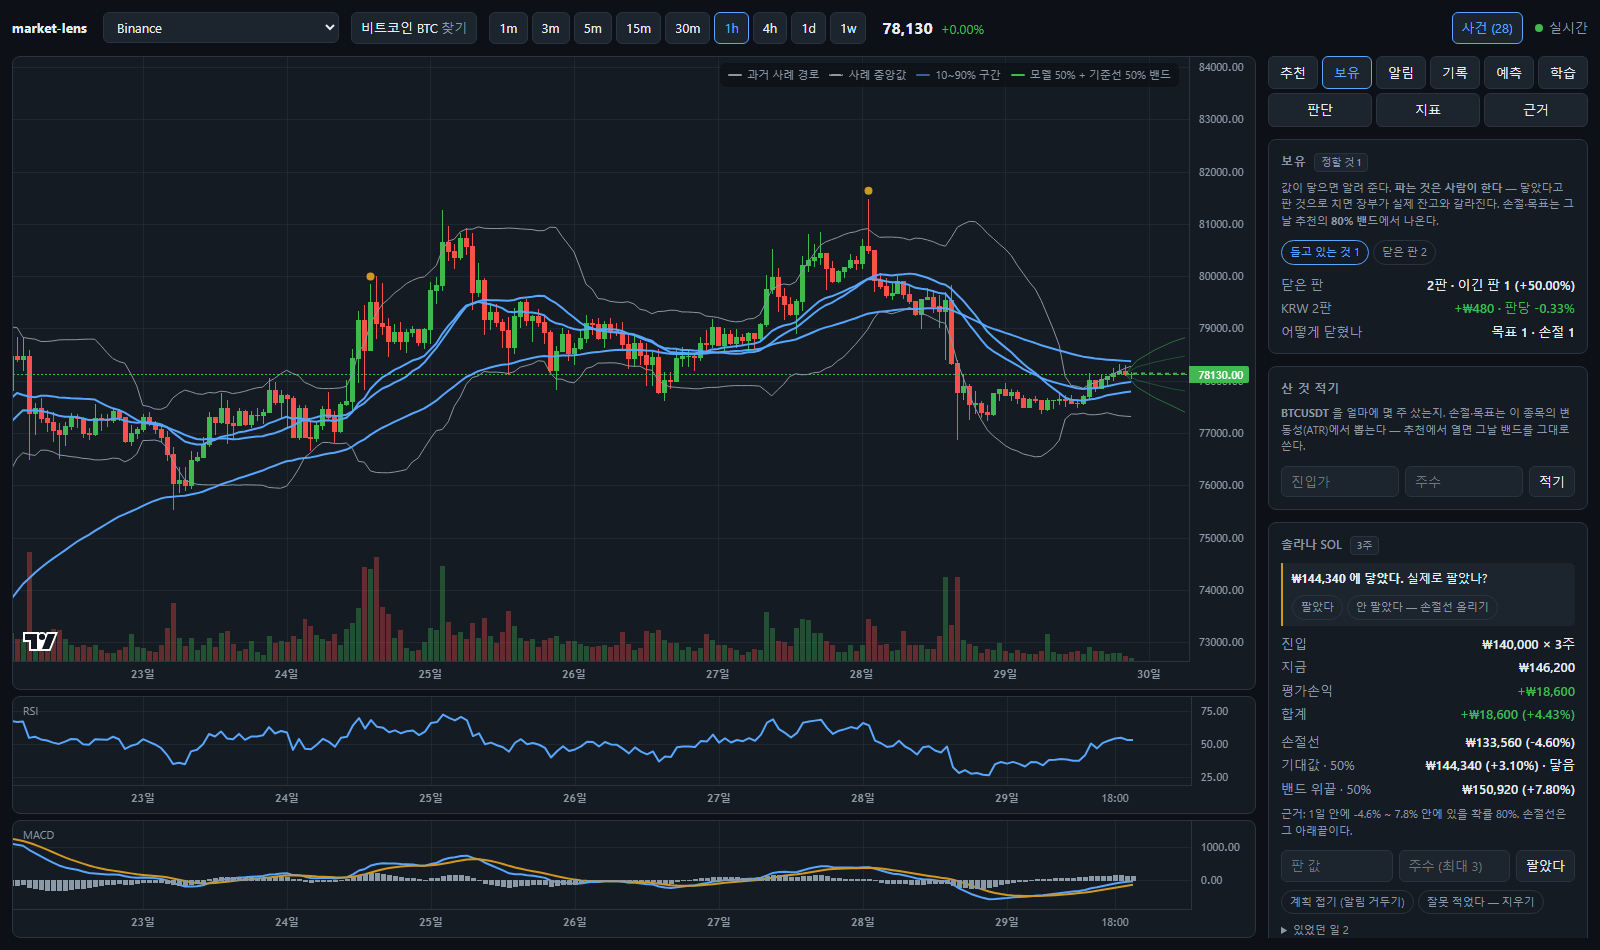
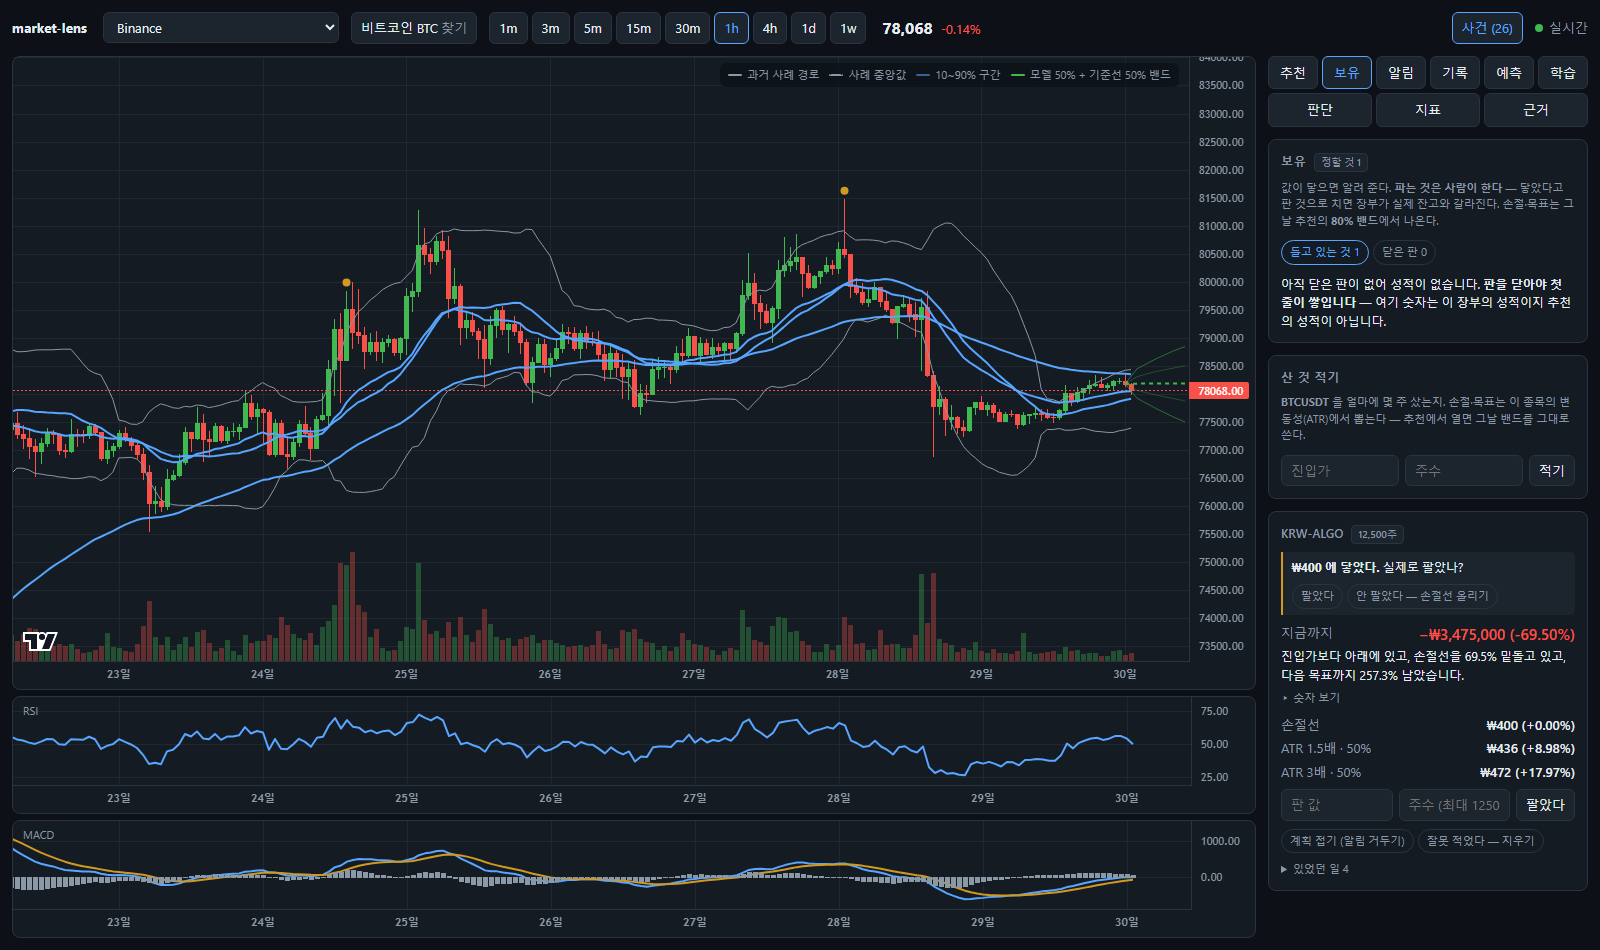
feat: 보유·알림·기록도 말로 설명한다
추천·판단·학습에 한 것을 나머지 셋에도 한다. 다만 **여기는 숫자가 곧 답인 자리가
섞여 있어** 접는 기준이 다르다.

## 보유 — 손익은 접지 않는다

"얼마 벌었나" 를 말로 바꾸면 오히려 못 읽는다. 그래서 합계를 제일 크게 그대로 두고,
말이 필요한 쪽에만 문장을 붙였다:

    지금까지          −₩3,487,500 (−69.75%)
    진입가보다 아래에 있고, 손절선을 69.8% 밑돌고 있고,
    다음 목표까지 260.3% 남았습니다.
    ▸ 숫자 보기   (진입 · 지금 · 평가손익 · 실현손익)

성적표도 "닫은 5판 가운데 3판이 이기고 2판이 졌습니다" 로 먼저 말하고, 번 돈은
통화별로 그대로 남긴다. 어떻게 닫혔나(손절 2 · 목표 1)만 접는다.

문장을 만들 때 어미를 떼고 모았다가 마지막에 한 번만 붙인다. 통째로 이어 붙였더니
"…밑돌고 있습니다, 다음 목표까지…" 로 문장이 두 번 끝났다.

## 알림 — 이 값이 어디서 나왔는지

`3일 안에 −5.5% ~ +5.6% 안에 있을 확률 80%` 만 적혀 있으면 그게 이 알림값과 무슨
상관인지 알 수가 없다. 알림값은 그 밴드 끝에서 잡은 것이므로 그렇게 적는다 —
"이 값은 3일 예측 폭(대개 ±5.6%)의 끝에서 잡은 것입니다".

## 기록 — 방향만, 점수는 안 매긴다

"그 뒤로 계속 올랐습니다" 한 마디를 변화율 위에 붙인다. 숫자는 그대로 남긴다 —
거기서도 답은 숫자다. **점수는 매기지 않는다**: buy_below 는 뒤가 오르면 반갑고
target_above 는 이미 닿아서 나간 알림이라, 한 잣대로 더하면 없는 성적이 생긴다
(`followup.py` 와 같은 이유). 그래서 "잘했다/못했다" 가 아니라 움직인 방향만 적는다.

방금 나간 알림은 +1일도 아직 없어 `최근` 하나뿐일 때가 많아서, 그것도 마지막 점으로
넣어야 한 마디가 나온다.

## 곁들여: 조용히 사라지던 줄

같은 초에 나간 시험 알림 여섯이 **같은 key 를 쓰고 있었다.** React 는 겹친 키를
만나면 하나만 그리고 나머지를 조용히 버린다 — 알림함과 기록에서 줄이 사라질 수
있었다는 뜻이다. 자리를 같이 넣어 갈랐다.

알림 탭은 스크린샷 목록에 없어서 눈으로 확인할 길이 없었다. 폰에서 제일 자주 여는
화면이라 `shot.mjs` 에 넣었다.

diff --git a/web/src/components/PositionsPanel.tsx b/web/src/components/PositionsPanel.tsx
@@ -13,6 +13,8 @@
 import { useCallback, useEffect, useState } from "react";
 
 import { positions as api } from "../api";
+import { ledgerWords, roomWords } from "../say";
+import { Numbers } from "./Numbers";
 import type { Position, PositionAdvice, PositionsView } from "../types";
 
 const SIGN: Record<string, string> = { KRW: "₩", USD: "$" };
@@ -137,40 +139,42 @@ function Record({ view }: { view: PositionsView | null }) {
   const record = view?.record;
   if (!record || record.n === 0) {
     return (
-      <p className="note" style={{ marginTop: 10 }}>
-        닫은 판이 없어 성적이 없다. <b>판을 닫아야 첫 줄이 쌓인다</b> — 여기 숫자는
-        이 장부의 성적이지 추천의 성적이 아니다.
+      <p className="plain" style={{ marginTop: 10 }}>
+        아직 닫은 판이 없어 성적이 없습니다. <b>판을 닫아야 첫 줄이 쌓입니다</b> —
+        여기 숫자는 이 장부의 성적이지 추천의 성적이 아닙니다.
       </p>
     );
   }
   return (
-    <div className="rows" style={{ marginTop: 10 }}>
-      <div className="row">
-        <span>닫은 판</span>
-        {/* 승률에는 부호를 안 붙인다. `+50%` 로 적으면 손익처럼 읽힌다. */}
-        <b>
-          {record.n}판 · 이긴 판 {record.wins ?? 0}{" "}
-          ({((record.winRate ?? 0) * 100).toFixed(0)}%)
-        </b>
+    <>
+      {/* 말이 먼저. 승률에는 부호를 안 붙인다 — `+50%` 로 적으면 손익처럼 읽힌다. */}
+      <p className="plain" style={{ marginTop: 10 }}>
+        {ledgerWords(record.n, record.wins ?? 0)}
+        {" ("}이긴 비율 {((record.winRate ?? 0) * 100).toFixed(0)}%{")"}
+      </p>
+      {/* **번 돈은 접지 않는다.** 여기선 숫자가 곧 답이다. */}
+      <div className="rows" style={{ marginTop: 6 }}>
+        {Object.entries(record.byCurrency).map(([currency, body]) => (
+          <div className="row" key={currency}>
+            <span>{currency} {body.n}판</span>
+            <b style={{ color: tone(body.realized) }}>
+              {signed(body.realized, currency)}
+              {body.avgPct !== null && ` · 판당 ${pct(body.avgPct)}`}
+            </b>
+          </div>
+        ))}
       </div>
-      {Object.entries(record.byCurrency).map(([currency, body]) => (
-        <div className="row" key={currency}>
-          <span>{currency} {body.n}판</span>
-          <b style={{ color: tone(body.realized) }}>
-            {signed(body.realized, currency)}
-            {body.avgPct !== null && ` · 판당 ${pct(body.avgPct)}`}
+      <Numbers>
+        <div className="row">
+          <span>어떻게 닫혔나</span>
+          <b>
+            {Object.entries(record.reasons)
+              .map(([key, n]) => `${REASON[key] ?? key} ${n}`)
+              .join(" · ")}
           </b>
         </div>
-      ))}
-      <div className="row">
-        <span>어떻게 닫혔나</span>
-        <b>
-          {Object.entries(record.reasons)
-            .map(([key, n]) => `${REASON[key] ?? key} ${n}`)
-            .join(" · ")}
-        </b>
-      </div>
-    </div>
+      </Numbers>
+    </>
   );
 }
 
@@ -278,36 +282,47 @@ function PositionCard({ item, onChange, onPick }: {
         </div>
       ))}
 
+      {/* **합계가 답이다.** 여기선 숫자를 접지 않고 제일 크게 둔다 — "얼마 벌었나" 를
+          말로 바꾸면 오히려 못 읽는다. 말이 필요한 건 "그래서 지금 어디쯤인가" 다. */}
       <div className="rows" style={{ marginTop: 8 }}>
         <div className="row">
-          <span>진입</span>
-          <b>{money(item.entry, item.currency)} × {item.shares.toLocaleString("ko-KR")}주</b>
-        </div>
-        <div className="row">
-          <span>지금</span>
-          <b>{item.price === null ? "시세 못 받음" : money(item.price, item.currency)}</b>
-        </div>
-        <div className="row">
-          <span>평가손익</span>
-          <b style={{ color: tone(item.unrealized) }}>
-            {signed(item.unrealized, item.currency)}
-          </b>
-        </div>
-        {item.realized !== 0 && (
-          <div className="row">
-            <span>실현손익</span>
-            <b style={{ color: tone(item.realized) }}>
-              {signed(item.realized, item.currency)}
-            </b>
-          </div>
-        )}
-        <div className="row">
-          <span>합계</span>
-          <b style={{ color: tone(total) }}>
+          <span>지금까지</span>
+          <b style={{ color: tone(total), fontSize: 15 }}>
             {signed(total, item.currency)} {totalPct !== null && `(${pct(totalPct)})`}
           </b>
         </div>
       </div>
+      {roomWords(item.price, item.entry, item.stop, item.targets) && (
+        <p className="plain">
+          {roomWords(item.price, item.entry, item.stop, item.targets)}
+        </p>
+      )}
+      <Numbers>
+        <div className="rows">
+          <div className="row">
+            <span>진입</span>
+            <b>{money(item.entry, item.currency)} × {item.shares.toLocaleString("ko-KR")}주</b>
+          </div>
+          <div className="row">
+            <span>지금</span>
+            <b>{item.price === null ? "시세 못 받음" : money(item.price, item.currency)}</b>
+          </div>
+          <div className="row">
+            <span>평가손익</span>
+            <b style={{ color: tone(item.unrealized) }}>
+              {signed(item.unrealized, item.currency)}
+            </b>
+          </div>
+          {item.realized !== 0 && (
+            <div className="row">
+              <span>실현손익</span>
+              <b style={{ color: tone(item.realized) }}>
+                {signed(item.realized, item.currency)}
+              </b>
+            </div>
+          )}
+        </div>
+      </Numbers>
 
       {item.status === "open" && (
         <div className="rows" style={{ marginTop: 8 }}>

diff --git a/web/src/say.ts b/web/src/say.ts
@@ -212,3 +212,69 @@ export function trustWords(measured?: { directionHit?: number; bandHit?: number 
     : "반반에 가깝고";
   return `이 도구는 "얼마나 움직일까" 를 ${band} 맞힙니다. "오를까 내릴까" 는 ${direction}, 그래서 폭을 먼저 읽는 게 맞습니다.`;
 }
+
+// --- 보유 · 알림 · 기록 ---------------------------------------------------
+
+/**
+ * 들고 있는 판 하나를 한 문장으로.
+ *
+ * **손익 숫자는 접지 않는다.** 거기선 숫자가 곧 답이다 — "얼마 벌었나" 를 말로
+ * 바꾸면 오히려 못 읽는다. 말이 필요한 건 **"그래서 지금 어디쯤인가"** 쪽이라,
+ * 손절선·목표까지 얼마나 남았는지를 문장으로 붙인다.
+ */
+export function roomWords(price: number | null, entry: number,
+                          stop: number, targets: { price: number; settledAt?: string | null }[]): string | null {
+  if (price === null || !Number.isFinite(price) || price <= 0) return null;
+  // 어미를 떼고 모았다가 마지막에 한 번만 붙인다. 통째로 이어 붙이면
+  // "…밑돌고 있습니다, 다음 목표까지…" 처럼 문장이 두 번 끝난다.
+  const clauses: string[] = [];
+  if (stop > 0) {
+    const away = (price / stop - 1) * 100;
+    clauses.push(away >= 0
+      ? `손절선까지 ${away.toFixed(1)}% 남았`
+      : `손절선을 ${Math.abs(away).toFixed(1)}% 밑돌고 있`);
+  }
+  const next = targets.find((tg) => !tg.settledAt && tg.price > price);
+  if (next) clauses.push(`다음 목표까지 ${((next.price / price - 1) * 100).toFixed(1)}% 남았`);
+  else if (targets.length && targets.every((tg) => tg.settledAt)) clauses.push("목표는 다 정리했");
+  if (clauses.length === 0) return null;
+  const side = price >= entry ? "진입가보다 위" : "진입가보다 아래";
+  return `${side}에 있고, ${clauses.join("고, ")}습니다.`;
+}
+
+/** 장부의 성적. **추천의 성적이 아니라 내가 실제로 사고판 결과다.** */
+export function ledgerWords(n: number, wins: number): string {
+  if (n === 0) return "아직 닫은 판이 없습니다. 판을 닫아야 첫 줄이 쌓입니다.";
+  const rest = n - wins;
+  if (wins === n) return `닫은 ${n}판이 모두 이겼습니다.`;
+  if (wins === 0) return `닫은 ${n}판이 모두 졌습니다.`;
+  return `닫은 ${n}판 가운데 ${wins}판이 이기고 ${rest}판이 졌습니다.`;
+}
+
+/**
+ * 알림 규칙의 밴드 줄. **이 값이 어디서 나왔는지**를 말한다.
+ *
+ * `3일 안에 −5.5% ~ +5.6% 안에 있을 확률 80%` 만 적혀 있으면, 그게 이 알림값과
+ * 무슨 상관인지 알 수가 없다. 알림값은 그 밴드 끝에서 잡은 것이다.
+ */
+export function ruleBandWords(days: number, band: [number, number]): string {
+  const half = ((band[1] - band[0]) / 2).toFixed(1);
+  return `이 값은 ${days}일 예측 폭(대개 ±${half}%)의 끝에서 잡은 것입니다`;
+}
+
+/**
+ * 알림이 나간 뒤 값이 어디로 갔나 — 한 마디.
+ *
+ * **점수를 매기지 않는다.** `buy_below` 는 뒤가 오르면 반갑고 `target_above` 는
+ * 이미 닿아서 나간 알림이라, 한 잣대로 더하면 없는 성적이 생긴다(`followup.py`).
+ * 그래서 "잘했다/못했다" 가 아니라 **움직인 방향**만 적는다.
+ */
+export function afterWords(points: number[]): string | null {
+  const seen = points.filter((v) => Number.isFinite(v));
+  if (seen.length === 0) return null;
+  const last = seen[seen.length - 1];
+  if (Math.abs(last) < 1) return "그 뒤로는 거의 제자리였습니다";
+  const rising = seen.length > 1 && seen[seen.length - 1] > seen[0];
+  if (last > 0) return rising ? "그 뒤로 계속 올랐습니다" : "그 뒤로 올랐다가 힘이 빠졌습니다";
+  return rising ? "내렸다가 돌아오는 중입니다" : "그 뒤로 계속 내렸습니다";
+}

diff --git a/web/src/components/AlertLog.tsx b/web/src/components/AlertLog.tsx
@@ -12,6 +12,7 @@
 import { useCallback, useEffect, useMemo, useState } from "react";
 
 import { alerts } from "../api";
+import { afterWords } from "../say";
 import type { AlertFired, AlertLogView, AlertOutcomes } from "../types";
 import { KIND } from "./AlertsPanel";
 
@@ -54,6 +55,20 @@ function num(value: number | null | undefined): string {
   if (value === null || value === undefined || !Number.isFinite(value)) return "—";
   const digits = value >= 1000 ? 0 : value >= 1 ? 2 : 4;
   return value.toLocaleString("ko-KR", { maximumFractionDigits: digits });
+}
+
+/** 알림 뒤의 변화율을 시간순으로. **`최근` 도 마지막 점으로 넣는다** — 방금 나간
+ *  알림은 +1일도 아직 없어서 그것만 있을 때가 많다. */
+function trail(outcome: { after: Record<string, { changePct: number }>;
+                          latest?: { changePct: number } | null },
+               horizons: number[]): number[] {
+  const points = horizons
+    .map((h) => outcome.after[String(h)]?.changePct)
+    .filter((v): v is number => typeof v === "number");
+  if (outcome.latest && typeof outcome.latest.changePct === "number") {
+    points.push(outcome.latest.changePct);
+  }
+  return points;
 }
 
 function pct(value: number): string {
@@ -261,8 +276,10 @@ export function AlertLog({ onPick }: Props) {
             <span className="scope">{group.items.length}건</span>
           </h2>
           <div className="rows" style={{ marginTop: 6 }}>
-            {group.items.map((item) => (
-              <LogRow key={item.id} item={item}
+            {/* 시험 알림처럼 **같은 초에 둘이 나가면 id 가 겹친다.** 겹친 키는 React 가
+                하나만 그리고 나머지를 조용히 버리므로, 자리를 같이 넣어 갈라 준다. */}
+            {group.items.map((item, index) => (
+              <LogRow key={`${item.id}-${index}`} item={item}
                       outcome={outcomes?.outcomes[item.id] ?? null}
                       horizons={horizons} onPick={onPick} />
             ))}
@@ -296,6 +313,14 @@ function LogRow({ item, outcome, horizons, onPick }: {
           {item.archived && " · 보관"}
           {!item.read && " · 안 읽음"}
         </span>
+        {/* **점수를 매기지 않는다.** `buy_below` 는 뒤가 오르면 반갑고 `target_above` 는
+            이미 닿아서 나간 알림이라, 한 잣대로 더하면 없는 성적이 생긴다. 그래서
+            "잘했다/못했다" 가 아니라 **움직인 방향**만 한 마디로 적는다. */}
+        {outcome && afterWords(trail(outcome, horizons)) && (
+          <span className="log-line" style={{ color: "var(--text)" }}>
+            {afterWords(trail(outcome, horizons))}
+          </span>
+        )}
         {outcome && (
           <span className="log-line">
             {horizons.map((h) => {

diff --git a/web/src/components/AlertsPanel.tsx b/web/src/components/AlertsPanel.tsx
@@ -8,6 +8,7 @@
 import { useCallback, useEffect, useState } from "react";
 
 import { alerts } from "../api";
+import { ruleBandWords } from "../say";
 import { installed, isIos, register, subscribe } from "../push";
 import type { AlertFired, AlertRule, AlertsView } from "../types";
 
@@ -128,8 +129,8 @@ export function AlertsPanel({ provider, symbol, onPick }: Props) {
               아직 온 알림이 없다. 아래에서 규칙을 걸면 그 값에 닿을 때 온다.
             </p>
           )}
-          {fired.map((item) => (
-            <FiredRow key={item.id} item={item} onChange={load} onPick={onPick} />
+          {fired.map((item, index) => (
+            <FiredRow key={`${item.id}-${index}`} item={item} onChange={load} onPick={onPick} />
           ))}
         </div>
       </section>
@@ -257,10 +258,11 @@ function RuleRow({ rule, onChange, onPick }: {
           {done && " · 울렸음"}
           {!rule.active && " · 꺼짐"}
         </span>
+        {/* **이 값이 어디서 나왔는지**를 말한다. `3일 안에 −5.5% ~ +5.6% 안에 있을
+            확률 80%` 만 적혀 있으면 그게 이 알림값과 무슨 상관인지 알 수가 없다. */}
         {rule.band && rule.days && (
           <span style={{ display: "block", color: "var(--text-dim)", fontSize: 11 }}>
-            {rule.days}일 안에 {rule.band[0].toFixed(1)}% ~ {rule.band[1].toFixed(1)}%
-            {" "}안에 있을 확률 80%
+            {ruleBandWords(rule.days, rule.band)}
           </span>
         )}
       </span>

diff --git a/CLAUDE.md b/CLAUDE.md
@@ -630,6 +630,11 @@
   ⚠ **`살 만한 셋` 에 든 날만 그렇게 부를 것.** 셋 다 아닌데 "그중 N일 뒤를 제일 좋게
   봤다" 고 쓰면 **없던 매수 신호가 생긴다.** 시점을 찍어 주지도 않는다 — 방향 적중이
   반반을 겨우 넘는 모델로 "언제 사라" 를 말하면 그 사실을 숨기는 화면이 된다.
+- **숫자가 곧 답인 자리는 접지 말 것.** 보유의 손익(`지금까지 −₩3,487,500 (−69.75%)`)
+  이나 실현손익은 말로 바꾸면 오히려 못 읽는다. 거기서 말이 필요한 건 **"그래서 지금
+  어디쯤인가"** 쪽이라 손절선·목표까지 얼마나 남았는지를 문장으로 얹고, 진입가·평가
+  손익 같은 **내역**만 접는다. 알림 기록도 변화율은 남기고 "그 뒤로 계속 올랐습니다"
+  한 마디를 위에 붙인다 — 다만 **점수를 매기지 않는다**(`followup.py` 와 같은 이유).
 - **숫자를 지우지는 않는다.** 접을 뿐이다. "믿지 마세요" 만 적고 근거를 감추면 읽는
   사람이 얼마나 안 믿어야 하는지 모른다 — 그건 더 나쁜 화면이다.
 - **묶음 공통 이야기를 줄마다 되풀이하지 말 것.** 순위 차이·방향처럼 모든 행이 같은
